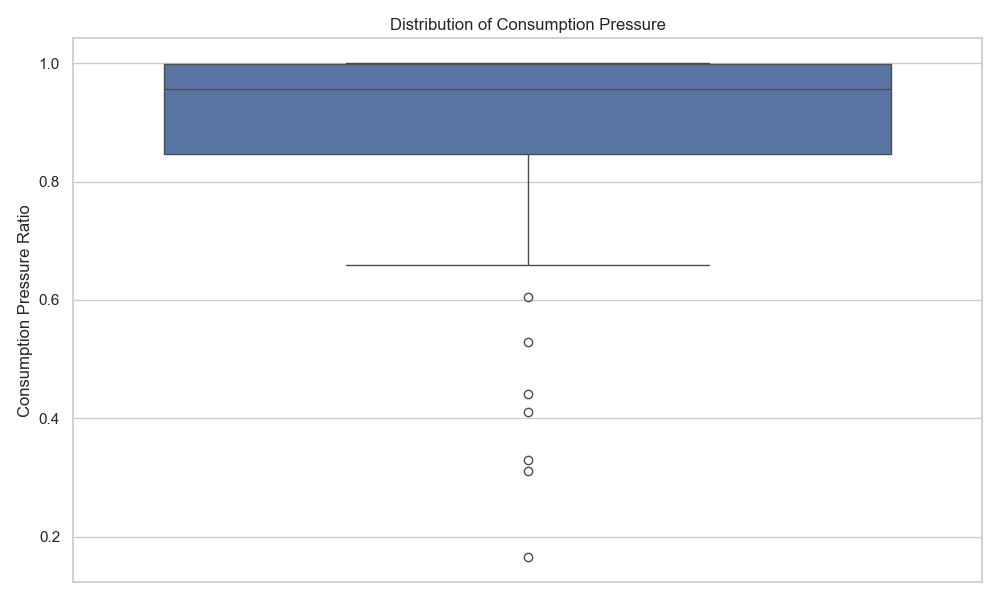
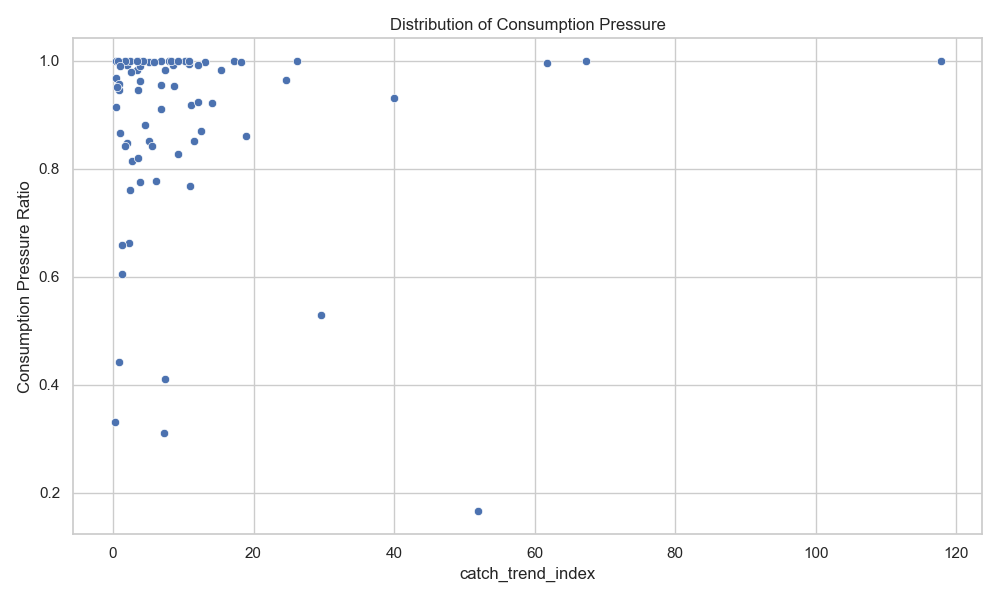
cconsumption pressure

diff --git a/scripts/05_plots.py b/scripts/05_plots.py
@@ -57,6 +57,8 @@ plt.tight_layout()
 plt.savefig("results/figures/global_catch_trend.png")
 plt.show()
 
+
+
 #-----------------------------------------------
 
 x = df[df["location"].str.lower() != "world"]
@@ -119,9 +121,15 @@ plt.show()
 
 plt.figure(figsize=(10,6))
 
-sns.boxplot(
-    y=metrics["consumption_pressure"]
+sns.scatterplot(
+    data=metrics,
+    x="catch_trend_index",
+    y="consumption_pressure"
 )
+
+# sns.boxplot(
+#     y=metrics["consumption_pressure"]
+# )
 
 plt.title("Distribution of Consumption Pressure")
 plt.ylabel("Consumption Pressure Ratio")
